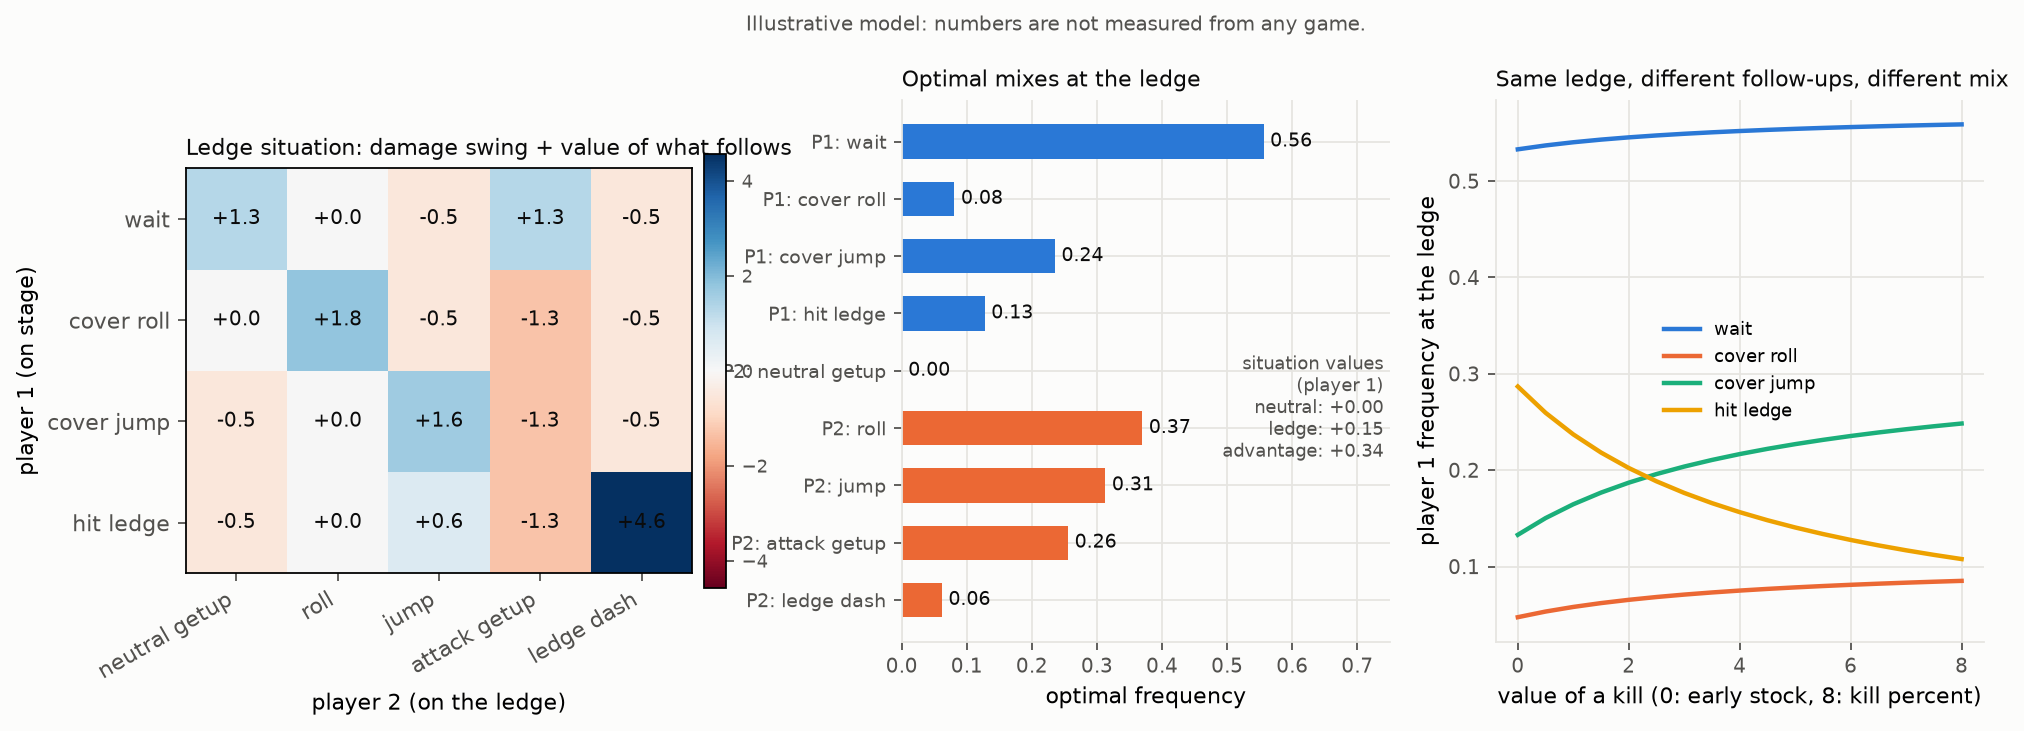
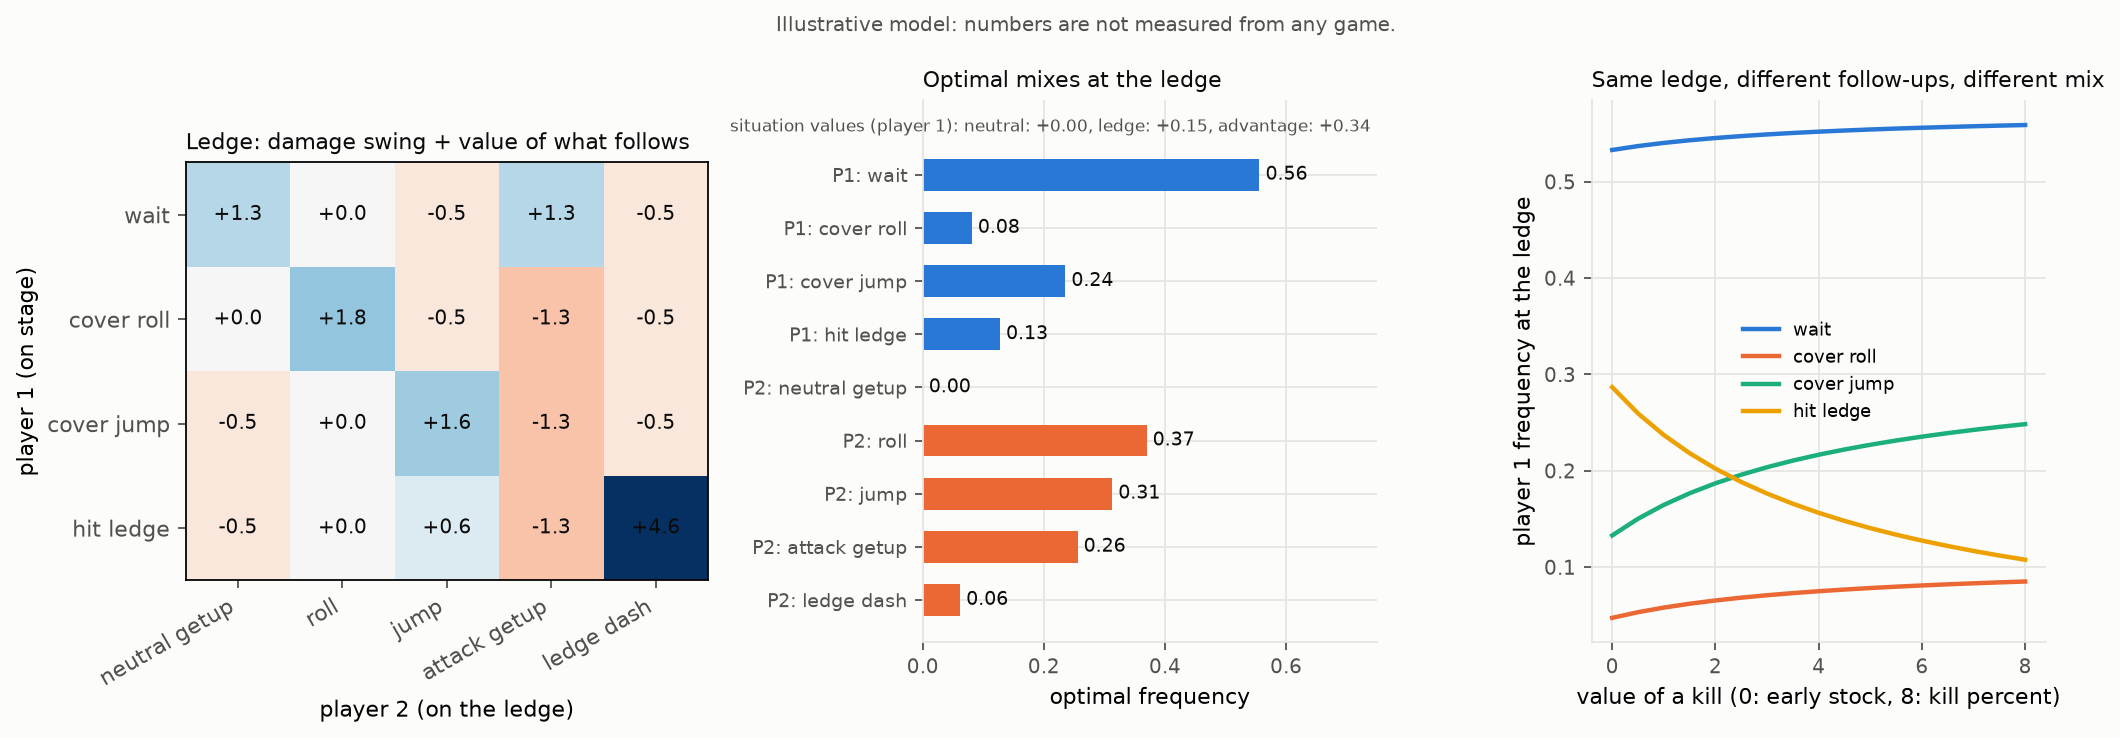
Add fighting-game chapter: stochastic ledge game, mechanics vs reading, rating from logs

diff --git a/explain/fighting_game.py b/explain/fighting_game.py
@@ -148,7 +148,7 @@ def fig_ledge(game, V, sols, sweep):
     rows, cols, _ = game[LEDGE]
     m = np.array(continuation_matrix(game, LEDGE, V), float)
     sol = sols[LEDGE]
-    fig, axes = plt.subplots(1, 3, figsize=(14.5, 4.4), gridspec_kw={"width_ratios": [1.25, 1, 1]})
+    fig, axes = plt.subplots(1, 3, figsize=(15, 4.4), gridspec_kw={"width_ratios": [1.15, 1, 1], "wspace": 0.45})
 
     ax = axes[0]
     lim = np.abs(m).max()
@@ -158,12 +158,10 @@ def fig_ledge(game, V, sols, sweep):
     for i in range(len(rows)):
         for j in range(len(cols)):
             ax.text(j, i, f"{m[i, j]:+.1f}", ha="center", va="center", fontsize=9, color=INK)
-    ax.set_title("Ledge situation: damage swing + value of what follows", loc="left", fontsize=10, color=INK)
+    ax.set_title("Ledge: damage swing + value of what follows", loc="left", fontsize=10, color=INK)
     ax.set_xlabel("player 2 (on the ledge)")
     ax.set_ylabel("player 1 (on stage)")
     ax.tick_params(colors=INK2)
-    cb = fig.colorbar(im, ax=ax, shrink=0.8, pad=0.02)
-    cb.ax.tick_params(colors=INK2, labelsize=8)
 
     ax = axes[1]
     style(ax)
@@ -176,10 +174,11 @@ def fig_ledge(game, V, sols, sweep):
         ax.text(p + 0.01, yi, f"{p:.2f}", va="center", fontsize=8.5, color=INK)
     ax.set_yticks(y, names, fontsize=8.5)
     ax.set_xlim(0, 0.75)
+    ax.set_ylim(-0.8, len(names) + 0.4)
     ax.set_xlabel("optimal frequency")
     ax.set_title("Optimal mixes at the ledge", loc="left", fontsize=10, color=INK)
-    vtxt = "\n".join(f"{s}: {V[s]:+.2f}" for s in [NEUTRAL, LEDGE, ADV])
-    ax.text(0.74, y[len(rows)] + 0.3, "situation values\n(player 1)\n" + vtxt, ha="right", va="top", fontsize=8, color=INK2)
+    vtxt = ", ".join(f"{s}: {V[s]:+.2f}" for s in [NEUTRAL, LEDGE, ADV])
+    ax.text(0.74, y[0] + 0.9, "situation values (player 1): " + vtxt, ha="right", va="center", fontsize=7.5, color=INK2)
 
     ax = axes[2]
     style(ax)
@@ -353,7 +352,7 @@ def rate_players(log, mats, sols):
 def fig_rating(rating):
     states = [NEUTRAL, LEDGE, LEDGE2, ADV, DISADV]
     fig, axes = plt.subplots(1, 2, figsize=(12, 3.8), sharey=True)
-    w = 0.36
+    w = 0.34
     for ax, key, title in zip(axes, ["leak", "read"], ["Leak: what a perfect reader could take, per encounter",
                                                        "Read: gain over equilibrium play against this opponent"]):
         style(ax)
@@ -362,10 +361,13 @@ def fig_rating(rating):
             vals = [rating[s][key][k] for s in states]
             bars = ax.bar(xs + (k - 0.5) * w, vals, w, color=col, label=who)
             for b, v in zip(bars, vals):
-                ax.text(b.get_x() + w / 2, v + (0.02 if v >= 0 else -0.02), f"{v:+.2f}", ha="center",
-                        va="bottom" if v >= 0 else "top", fontsize=8, color=INK)
+                if abs(v) < 0.005:
+                    continue
+                ax.text(b.get_x() + (w * 0.15 if k else w * 0.85), v + (0.01 if v >= 0 else -0.01), f"{v:+.2f}",
+                        ha="left" if k else "right", va="bottom" if v >= 0 else "top", fontsize=7.5, color=INK)
         ax.axhline(0, color=INK2, lw=0.8)
-        ax.set_xticks(xs, [f"{s}\n(n={rating[s]['n']})" for s in states], fontsize=8.5)
+        short = {NEUTRAL: "neutral", LEDGE: "ledge\n(P2 hangs)", LEDGE2: "ledge\n(P1 hangs)", ADV: "advantage\n(P1)", DISADV: "advantage\n(P2)"}
+        ax.set_xticks(xs, [f"{short[s]}\nn={rating[s]['n']}" for s in states], fontsize=8)
         ax.set_title(title, loc="left", fontsize=10, color=INK)
     axes[0].set_ylabel("damage swing units per encounter")
     axes[0].legend(frameon=False, fontsize=9)

diff --git a/tests/test_fighting_game.py b/tests/test_fighting_game.py
@@ -1,0 +1,63 @@
+import os
+import sys
+
+sys.path.insert(0, os.path.join(os.path.dirname(__file__), "..", "explain"))
+
+from fighting_game import (  # noqa: E402
+    ADV,
+    DISADV,
+    LEDGE,
+    NEUTRAL,
+    build_game,
+    continuation_matrix,
+    leak_and_read,
+    observed_mix,
+    solve_game,
+)
+from rps_solver import solve_exact  # noqa: E402
+
+UNBALANCED = [[1, 0, -1], [-1, 1, 1], [0, -1, 1]]
+
+
+def test_value_iteration_converges_to_valid_mixes():
+    game = build_game()
+    V, sols = solve_game(game)
+    for s, sol in sols.items():
+        assert abs(sum(sol.attack) - 1) < 1e-9 and min(sol.attack) >= 0
+        assert abs(sum(sol.defense) - 1) < 1e-9 and min(sol.defense) >= 0
+    # The game is symmetric: neutral is even, advantage mirrors disadvantage.
+    assert abs(V[NEUTRAL]) < 1e-4
+    assert abs(V[ADV] + V[DISADV]) < 1e-4
+    assert V[LEDGE] > 0  # the player on stage is favoured
+
+
+def test_equilibrium_has_no_leak_and_no_read():
+    game = build_game()
+    V, sols = solve_game(game)
+    m = continuation_matrix(game, LEDGE, V)
+    sol = solve_exact([[round(v, 6) for v in row] for row in m])
+    r = leak_and_read(m, [float(p) for p in sol.attack], [float(p) for p in sol.defense], sol)
+    assert all(abs(v) < 1e-4 for v in r["leak"])
+    assert all(abs(v) < 1e-4 for v in r["read"])
+
+
+def test_leak_and_read_on_known_mixes():
+    sol = solve_exact(UNBALANCED)
+    m = [[float(v) for v in row] for row in UNBALANCED]
+    x = [0.25, 0.5, 0.25]
+    # Against the equilibrium defence: the attacker leaks 0.36 but nothing is read either way.
+    r = leak_and_read(m, x, [float(p) for p in sol.defense], sol)
+    assert abs(r["leak"][0] - (1 / 9 + 0.25)) < 1e-9
+    assert abs(r["leak"][1]) < 1e-9
+    assert abs(r["read"][0]) < 1e-9 and abs(r["read"][1]) < 1e-9
+    # Against a defender who always plays D0 (the best reply): the defender's read is the whole leak.
+    r = leak_and_read(m, x, [1.0, 0.0, 0.0], sol)
+    assert abs(r["read"][1] - (1 / 9 + 0.25)) < 1e-9
+    assert abs(r["read"][0] + (1 / 9 + 0.25)) < 1e-9
+
+
+def test_observed_mix_counts_options():
+    log = [("s", 0, 1, 0.0), ("s", 2, 1, 0.0), ("t", 1, 0, 0.0), ("s", 0, 0, 0.0)]
+    x, n = observed_mix(log, "s", 0)
+    y, _ = observed_mix(log, "s", 1)
+    assert n == 3 and x == [2 / 3, 0.0, 1 / 3] and y == [1 / 3, 2 / 3]

diff --git a/docs/fighting-games.md b/docs/fighting-games.md
@@ -1,0 +1,67 @@
+# Fighting games as a chain of situational rock-paper-scissors
+
+Everything below runs on an illustrative model. The option names come from platform fighters, the payoff numbers do not come from any measured game.
+
+## The model
+
+A match is a sequence of encounters. In each one, both players commit to an option at about the same time (a getup option against a cover option, an escape against a combo extension) and the pair of choices decides a damage swing and the next situation. Each encounter is a small zero-sum matrix, so the solver of this repository applies to it, with one twist: the entries are not just the immediate damage. An outcome that sends the opponent back to the ledge is worth the damage plus the value of being at the ledge again, and an outcome that resets to neutral is worth the damage plus the value of neutral.
+
+Formally this is a stochastic game (Shapley, 1953). With a discount `gamma` on the future, the value of each situation solves
+
+    V(s) = value of the matrix [ r(s, a, d) + gamma * sum_s' P(s' | s, a, d) V(s') ]
+
+`explain/fighting_game.py` builds five situations (neutral, ledge trap for each player, advantage for each player), iterates that equation until the values stop moving, and calls `solve_exact` on every matrix. A lost stock is a reward of `KILL` units followed by a reset to neutral.
+
+The consequence is the point of the chapter: two encounters with the same immediate damage table have different optimal mixes when their follow-ups differ. The matrix of an encounter is a property of the game state, not of the move list.
+
+## A worked example: the ledge
+
+Player 2 hangs on the ledge with five options (neutral getup, roll, jump, attack getup, ledge dash). Player 1 stands on stage with four (wait, cover roll, cover jump, hit ledge). Immediate payoffs are damage swings in units of roughly 10%; ledge dash is invincible against most covers but loses hard (a possible kill) to a well-timed hit on the ledge.
+
+![ledge](../images/ledge_game.png)
+
+With `KILL = 6` and `gamma = 0.9`:
+
+| | neutral | ledge (P1 on stage) | advantage (P1) |
+|---|---|---|---|
+| value for player 1 | 0.00 | +0.15 | +0.34 |
+
+Optimal ledge mixes: player 1 waits 56%, covers roll 8%, covers jump 24%, hits the ledge 13%. Player 2 never neutral getups, rolls 37%, jumps 31%, attack getups 26%, ledge dashes 6%.
+
+Solving the same table on immediate damage only gives a different answer: player 1 hits the ledge 28% and player 2 ledge dashes 13%. The right panel of the figure sweeps the value of a kill from 0 (early stock, the hit cannot kill) to 8 (kill percent). As the kill gets more valuable, player 2 ledge dashes less (14% to 5%) and player 1 uses the killing option less (29% to 11%), moving that weight to cover jump (13% to 25%). The threat does the work, the killing option itself is used less. This is the same mechanism as the buff figure in the README: an option's frequency is set by what keeps the opponent honest, not by its own strength.
+
+## Mechanics versus reading
+
+Two players repeat the unbalanced 3x3 game. The "mechanic" plays a fixed mix with clean execution but a human-like bias (the strong option A1 is overplayed by 0.15 or 0.05 at the expense of A0). The "reader" mis-inputs more often (with probability `gap` the chosen option is replaced by a random one) but keeps a recency-weighted count of the opponent's options (half-life 200 rounds) and best-replies to it, mixing that reply with the equilibrium according to a trust parameter.
+
+![mechanics vs reading](../images/mechanics_vs_reading.png)
+
+Findings, in payoff per round above the equilibrium value:
+
+- Against the 0.15 bias, a fully trusting reader earns +0.30 with equal execution and still +0.16 with 40% extra mis-inputs. Reading pays for a large mechanics gap.
+- Against the 0.05 bias the edge shrinks to +0.09 and +0.07. The break-even line becomes noisy because a bias that small is comparable to the model's own sampling noise over 200 rounds.
+- A reader who does not trust the model (trust 0) plays the equilibrium and gains nothing from the bias, while paying for every mis-input. Reading is what converts the opponent's leak into payoff; execution only sets the price.
+
+Caveats: the opponent is stationary, so trusting the model fully has no downside here. Against an adapting opponent, full trust is itself a leak (see `docs/exploitation.md`). Mis-inputs are modelled as uniform random replacements; a whiff that always loses would punish execution more. The size of the edge scales with the opponent's bias, which is the quantity a real analysis would have to measure.
+
+## Rating players from match logs
+
+Given a log of encounters `(situation, option of player 1, option of player 2)`, two numbers per player and situation:
+
+- **Leak**: the exploitability of the player's observed mix, `value - min over opponent replies`. What a perfect reader could take per encounter. It depends only on the player, not on the opponent they faced.
+- **Read**: the payoff of the observed mix against the observed opponent, minus the payoff the equilibrium mix would have earned against that same opponent. Positive when the player's deviations were the right ones for this opponent. The two reads in a situation sum to at most zero, so a read is always taken from someone.
+
+![rating](../images/player_rating.png)
+
+In the simulated log, player 1 over-waits at the ledge (leak 0.24) and player 2 jumps into that (leak 0.48 against a best-replier, but a read of +0.12 against this player 1). In neutral, player 2 approaches too much (leak 0.20) and player 1 waits into it (read +0.08). A leak that the opponent does not punish costs nothing; a read is a leak that happens to be pointed at the opponent's leak. Equilibrium play in the advantage situations shows near-zero on both counts.
+
+Data needed for a real analysis: a definition of situations coarse enough to repeat (ledge trap, tech chase, juggle), the option each player chose at each encounter, and payoff estimates per outcome (damage swing, or stock swing scaled by a kill value). The payoffs can be estimated from the outcomes themselves once the situations are labelled.
+
+Sample size matters. The leak measured on a perfectly optimal ledge player, from a finite log, is a pure sampling artefact: 0.23 with 30 encounters, 0.13 with 100, 0.08 with 300, 0.04 with 1000. A leak has to clear that noise floor before it means anything, and it must be compared to the same-size baseline (or bootstrapped) rather than to zero.
+
+## How to run
+
+    python explain/fighting_game.py     # prints the values, mixes and ratings, writes the three figures
+    python -m pytest tests/test_fighting_game.py
+
+Edit `build_game` to change options, payoffs and transitions. Every situation may have a different number of options per player.
